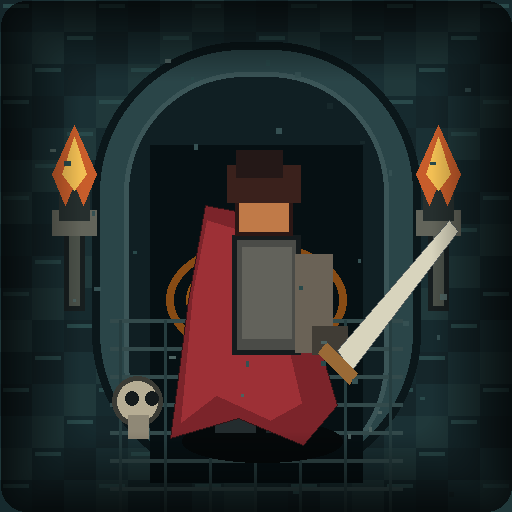
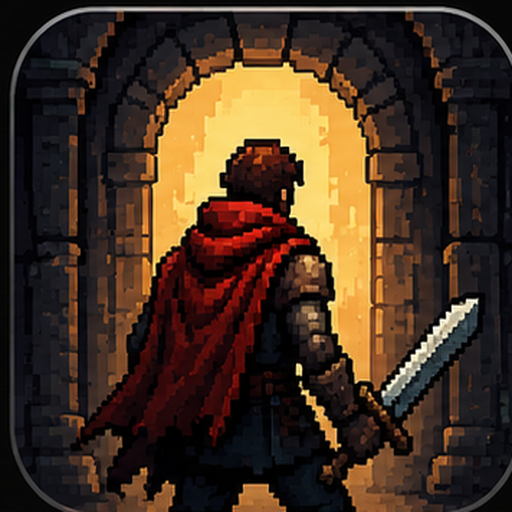
Add files via upload

diff --git a/game.js b/game.js
@@ -1,5 +1,5 @@
 const c=document.getElementById('game'),ctx=c.getContext('2d');
-let W=360,H=480,dpr=1,last=0,room=1,kills=0,gold=0,gameOver=false,roomCleared=false,xp=0,level=1,xpNeed=12,started=false,roomsCleared=0,totalGoldCollected=0,walkTime=0;
+let W=360,H=480,dpr=1,last=0,room=1,kills=0,gold=0,score=0,gameOver=false,roomCleared=false,xp=0,level=1,xpNeed=12,started=false,roomsCleared=0,totalGoldCollected=0,walkTime=0,scoreSaved=false,areaClearTimer=0,areaClearShown=false;
 let area=1,areaName='CASTLE',areaRooms=6,bossRoom=7,atShop=false,areaComplete=false;
 const SPRITE_SCALE=0.82;
 const WEAPONS={
@@ -13,6 +13,18 @@ let enemies=[],loot=[],slashes=[],deathMarks=[],particles=[],projectiles=[],entr
 let spawnQueue=[],spawnTimer=0,totalSpawned=0,totalQuota=0,activeCap=0,activeGoblinCap=0,bossPatternTimer=0,bossPatternStep=0,bossPatternMode='burst';
 const ROOM_PLAN={1:{cap:5,total:10,weights:[['bat',.80],['goblin',.10],['skeleton',.10]]},2:{cap:6,total:12,weights:[['bat',.70],['goblin',.15],['skeleton',.15]]},3:{cap:7,total:14,weights:[['bat',.60],['goblin',.20],['skeleton',.20]]},4:{cap:8,total:17,weights:[['bat',.50],['goblin',.25],['skeleton',.25]]},5:{cap:10,total:20,weights:[['bat',.40],['goblin',.30],['skeleton',.30]]},6:{cap:12,total:22,weights:[['bat',1/3],['goblin',1/3],['skeleton',1/3]]}};
 let shopMessage='',bossWarningType='',bossWarningTimer=0;
+const SCORE_VALUES={bat:50,goblin:75,skeleton:100,boss:1000};
+let highScores=[];
+try{highScores=JSON.parse(localStorage.getItem('dungeonSurvivorHighScores')||'[]');if(!Array.isArray(highScores))highScores=[]}catch(e){highScores=[]}
+function addScore(amount){score=Math.max(0,score+amount)}
+function saveHighScore(){if(scoreSaved)return;scoreSaved=true;highScores.push({score,room,level,gold:totalGoldCollected,kills,area});highScores.sort((a,b)=>b.score-a.score);highScores=highScores.slice(0,5);try{localStorage.setItem('dungeonSurvivorHighScores',JSON.stringify(highScores))}catch(e){}}
+function scoreRank(){const i=highScores.findIndex(r=>r.score===score&&r.level===level&&r.kills===kills&&r.gold===totalGoldCollected);return i>=0?i+1:0}
+function finishGameOver(){if(gameOver)return;gameOver=true;saveHighScore();msg('You died — tap FIRE to return to title')}
+function enemyScale(){return (1+(area-1)*.18)*(1+(level-1)*.075)}
+function enemyDamageScale(){return 1+(area-1)*.12+(level-1)*.045}
+function scaledPotionHeal(){return Math.min(player.maxHp,18+(area-1)*3+Math.floor((level-1)*1.5))}
+function scaledGoldAmount(enemyType){const typeBonus=enemyType==='skeleton'?2:enemyType==='goblin'?1:0;const base=1+Math.floor(Math.random()*5);return Math.min(14,base+Math.max(0,area-1)+Math.floor((level-1)/3)+typeBonus)}
+function bossGoldReward(){return 30+area*12+level*3}
 let nextSwingSide=1, swingCooldown=0, facing=0, facingDir='right';
 const GOBLIN_CAPS={1:2,2:3,3:4,4:5,5:6,6:6};
 const P={ink:'#061316',deep:'#0a1c20',wall:'#172d31',wall2:'#234247',stone:'#29494a',moss:'#3f6d43',vine:'#2f603c',teal:'#52d8c0',teal2:'#83f0d7',cream:'#d8d4bd',gold:'#e5b94d',gold2:'#ffd86a',red:'#c95159',red2:'#ed6a70',blue:'#5fa9c7',green:'#4dbb88'};
@@ -48,12 +60,12 @@ function chooseEnemyType(weights){
 }
 function resetRoom(){
  player.x=58;player.y=H/2;player.hp=clamp(player.hp,0,player.maxHp);player.flash=0;player.hitTimer=0;player.hitCooldown=0;player.knockX=0;player.knockY=0;
- enemies=[];loot=[];slashes=[];deathMarks=[];particles=[];projectiles=[];entrances=[];roomCleared=false;atShop=false;areaComplete=false;bossWarningTimer=0;setBossWarning('');
+ enemies=[];loot=[];slashes=[];deathMarks=[];particles=[];projectiles=[];entrances=[];roomCleared=false;atShop=false;areaComplete=false;areaClearTimer=0;areaClearShown=false;bossWarningTimer=0;setBossWarning('');
  spawnQueue=[];spawnTimer=.35;totalSpawned=0;bossPatternTimer=1.1;bossPatternStep=0;bossPatternMode='burst';
  const isBoss=room===bossRoom;
  if(isBoss){
   totalQuota=1;activeCap=1;
-  const hp=650+area*100;
+  const hp=Math.round((650+area*100)*enemyScale());
   enemies.push({x:W-105,y:H/2,r:34*SPRITE_SCALE,type:'boss',hp,max:hp,active:true,speed:35+area*2,hit:0,boss:true,attackTimer:1.1,attackAge:0,swingHit:false,weapon:'shortSword',warning:'',warningTimer:0,patternActive:false});
   msg('BOSS ROOM — DEFEAT THE GUARDIAN');
  }else{
@@ -96,7 +108,7 @@ function activateEntrance(ent){
  const base=ent.type==='bat'?34:ent.type==='goblin'?48:58;
  const speed=ent.type==='bat'?78:ent.type==='goblin'?42:34;
  const r=ent.type==='bat'?11:15;
- const hp=base+room*7;
+ const hp=Math.round((base+room*7)*enemyScale());
  enemies.push({x:ent.x,y:ent.y,r:r*SPRITE_SCALE,type:ent.type,hp,max:hp,speed:speed+room*2,hit:0,attackCooldown:.8,windup:0,attackAge:0,swingHit:false,swingAngle:0,swingSide:1,reposition:0,vulnerable:0,active:true,facingDir:'left'});
 }
 
@@ -121,7 +133,7 @@ function buyUpgrade(type){
 }
 function continueFromShop(){
  if(!atShop)return;
- atShop=false;areaComplete=false;area++;areaName=area===2?'TBD':`AREA ${area}`;room=1;
+ atShop=false;areaComplete=false;area++;areaName={2:'LOWER CASTLE',3:'CRYPT',4:'CATACOMBS',5:'ABYSS'}[area]||`AREA ${area}`;room=1;
  showPickup(`Entering Area ${area}`);
  msg(`AREA ${area} — ${areaName}`);
  resetRoom();
@@ -130,7 +142,7 @@ function continueFromShop(){
 function spawnLoot(x,y,enemyType){
  // Almost everything is gold. Healing is deliberately rare.
  const roll=Math.random();
- let type='Gold',amount=1+Math.floor(Math.random()*5);
+ let type='Gold',amount=scaledGoldAmount(enemyType);
  if(roll<0.035) type='Heart';
  else if(roll<0.105) type='Potion';
  const kick=Math.random()*Math.PI*2;const kickSpeed=type==='Gold'?35+Math.random()*35:0;
@@ -168,14 +180,16 @@ function performSwing(){
  slashes.push({age:0,duration:w.swingDuration,side,angle:facing,reach:w.reach,hit:new Set(),damage:player.damage,weapon:player.weapon});
 }
 
-function damagePlayer(amount,sourceX,sourceY,knockbackScale=1){
+function damagePlayer(amount,sourceX,sourceY,knockbackScale=1,hitType='normal'){
  if(gameOver||player.hitCooldown>0)return false;
  const dx=player.x-sourceX,dy=player.y-sourceY,d=Math.hypot(dx,dy)||1;
  const strength=(18+amount*0.95)*knockbackScale;
  player.knockX=dx/d*strength;player.knockY=dy/d*strength;
  player.hp-=amount;player.flash=.16;player.hitTimer=.24;player.hitCooldown=.28;
+ addScore(-(hitType==='fire'?100:5));
  burst(player.x,player.y,'hit',7);
- if(player.hp<=0){player.hp=0;gameOver=true;msg('You died — tap FIRE to return to title');}
+ if(player.hp<=0){player.hp=0;finishGameOver();}
+ updateHud();
  return true;
 }
 
@@ -183,6 +197,7 @@ function update(dt){
  if(!started)return;
  if(gameOver)return;
  if(atShop){updateHud();return;}
+ if(areaClearTimer>0)areaClearTimer=Math.max(0,areaClearTimer-dt);
  player.fire=Math.max(0,player.fire-dt);player.flash=Math.max(0,player.flash-dt);player.hitTimer=Math.max(0,player.hitTimer-dt);player.hitCooldown=Math.max(0,player.hitCooldown-dt);swingCooldown=Math.max(0,swingCooldown-dt);
  player.x+=player.knockX*dt;player.y+=player.knockY*dt;const knockDrag=Math.pow(.025,dt);player.knockX*=knockDrag;player.knockY*=knockDrag;
  let mx=(keys.d?1:0)-(keys.a?1:0),my=(keys.s?1:0)-(keys.w?1:0);
@@ -221,7 +236,7 @@ function update(dt){
    e.y+=((Math.sin(a)*move)+Math.sin(a+Math.PI/2)*strafe)*e.speed*dt*moveScale;
    e.attackCooldown-=dt;
    if(d<260&&e.attackCooldown<=0&&e.windup<=0){e.windup=.52;e.attackCooldown=1.45;}
-   if(e.windup>0){e.windup-=dt;if(e.windup<=0){shootProjectile(e.x,e.y,a,115,10,'arrow');e.reposition=.42}}
+   if(e.windup>0){e.windup-=dt;if(e.windup<=0){shootProjectile(e.x,e.y,a,115,Math.round(10*enemyDamageScale()),'arrow');e.reposition=.42}}
    if(e.reposition>0){e.reposition-=dt;const back=Math.atan2(e.y-player.y,e.x-player.x);e.x+=Math.cos(back)*e.speed*dt*1.8*moveScale;e.y+=Math.sin(back)*e.speed*dt*1.8*moveScale}
   }else if(e.type==='skeleton'){
    const a=Math.atan2(player.y-e.y,player.x-e.x);
@@ -232,7 +247,7 @@ function update(dt){
    if(e.windup>0){e.windup-=dt;if(e.windup<=0){e.attackAge=.20;e.swingHit=false;e.swingAngle=a}}
    if(e.attackAge>0){
     e.attackAge=Math.max(0,e.attackAge-dt);
-    if(!e.swingHit&&Math.hypot(player.x-e.x,player.y-e.y)<e.r+player.r+18){damagePlayer(14,e.x,e.y,1.0);e.swingHit=true}
+    if(!e.swingHit&&Math.hypot(player.x-e.x,player.y-e.y)<e.r+player.r+18){damagePlayer(Math.round(14*enemyDamageScale()),e.x,e.y,1.0,'normal');e.swingHit=true}
     if(e.attackAge<=0){e.attackCooldown=1.2;e.vulnerable=.35;}
    e.vulnerable=Math.max(0,(e.vulnerable||0)-dt);
    }
@@ -261,7 +276,7 @@ function update(dt){
    }
    if(e.patternActive&&bossPatternMode==='burst'&&bossPatternTimer<1.0){
     const n=5,gap=.16,idx=Math.floor(bossPatternTimer/gap);
-    if(idx<n&&Math.abs(bossPatternTimer-idx*gap)<dt*1.2){const base=Math.atan2(player.y-e.y,player.x-e.x);shootProjectile(e.x,e.y,base+(idx-2)*.11,122,14,'fireball');}
+    if(idx<n&&Math.abs(bossPatternTimer-idx*gap)<dt*1.2){const base=Math.atan2(player.y-e.y,player.x-e.x);shootProjectile(e.x,e.y,base+(idx-2)*.11,122,Math.round(14*enemyDamageScale()),'fireball');}
     bossPatternTimer+=dt;
     if(bossPatternTimer>=1.0){e.patternActive=false;e.attackTimer=3.2;}
    }else if(e.patternActive&&bossPatternMode==='spiral'&&bossPatternTimer<3.6){
@@ -272,15 +287,15 @@ function update(dt){
    }
   }
   e.x=clamp(e.x,32,W-32);e.y=clamp(e.y,72,H-72);
-  if(e.type!=='goblin'&&e.type!=='skeleton'&&d<e.r+player.r){damagePlayer(e.type==='boss'?30:22,e.x,e.y,e.type==='boss'?1.2:.55)}
-  if(player.hp<=0){player.hp=0;gameOver=true;msg('You died — tap FIRE to return to title')}
+  if(e.type!=='goblin'&&e.type!=='skeleton'&&d<e.r+player.r){damagePlayer(e.type==='boss'?Math.round(30*enemyDamageScale()):Math.round(22*enemyDamageScale()),e.x,e.y,e.type==='boss'?1.2:.55,'normal')}
+  if(player.hp<=0){player.hp=0;finishGameOver()}
  }
 
- for(let i=projectiles.length-1;i>=0;i--){const q=projectiles[i];q.age+=dt;q.x+=Math.cos(q.a)*q.speed*dt;q.y+=Math.sin(q.a)*q.speed*dt;q.life-=dt;if(q.life<=0||q.x<15||q.x>W-15||q.y<60||q.y>H-60){projectiles.splice(i,1);continue}if(Math.hypot(q.x-player.x,q.y-player.y)<q.r+player.r){if(damagePlayer(q.damage,q.x,q.y,q.type==='fireball'?1.0:.85))projectiles.splice(i,1);else projectiles.splice(i,1)}}
+ for(let i=projectiles.length-1;i>=0;i--){const q=projectiles[i];q.age+=dt;q.x+=Math.cos(q.a)*q.speed*dt;q.y+=Math.sin(q.a)*q.speed*dt;q.life-=dt;if(q.life<=0||q.x<15||q.x>W-15||q.y<60||q.y>H-60){projectiles.splice(i,1);continue}if(Math.hypot(q.x-player.x,q.y-player.y)<q.r+player.r){if(damagePlayer(q.damage,q.x,q.y,q.type==='fireball'?1.0:.85,q.type==='fireball'||q.type==='fireblast'?'fire':'normal'))projectiles.splice(i,1);else projectiles.splice(i,1)}}
 
  for(let i=slashes.length-1;i>=0;i--){
   const s=slashes[i];s.age+=dt;const progress=s.age/s.duration;const reach=s.reach||playerWeapon().reach;const centre=s.angle+s.side*(Math.PI*.40-(Math.min(1,progress)*Math.PI*.80));
-  for(const e of [...enemies]){if(s.hit.has(e)||!e.active)continue;const dx=e.x-player.x,dy=e.y-player.y,d=Math.hypot(dx,dy);let da=Math.atan2(dy,dx)-centre;da=Math.atan2(Math.sin(da),Math.cos(da));if(d<reach+e.r&&Math.abs(da)<.82){e.hp-=s.damage;s.hit.add(e);e.hit=.12;e.stagger=.12;const push=Math.max(0,1-d/(reach+e.r));const pa=Math.atan2(e.y-player.y,e.x-player.x);e.x+=Math.cos(pa)*(8+18*push);e.y+=Math.sin(pa)*(8+18*push);burst(e.x,e.y,'hit',5);if(e.hp<=0){deathMarks.push({x:e.x,y:e.y,type:e.type,seed:Math.random()*1000});if(e.type!=='boss')spawnLoot(e.x,e.y,e.type);enemies.splice(enemies.indexOf(e),1);kills++;awardXP(e.type==='boss'?30:e.type==='bat'?3:e.type==='goblin'?4:5);burst(e.x,e.y,'death',e.type==='boss'?28:12);if(!isBossRoom())spawnTimer=.65;}}}
+  for(const e of [...enemies]){if(s.hit.has(e)||!e.active)continue;const dx=e.x-player.x,dy=e.y-player.y,d=Math.hypot(dx,dy);let da=Math.atan2(dy,dx)-centre;da=Math.atan2(Math.sin(da),Math.cos(da));if(d<reach+e.r&&Math.abs(da)<.82){e.hp-=s.damage;s.hit.add(e);e.hit=.12;e.stagger=.12;const push=Math.max(0,1-d/(reach+e.r));const pa=Math.atan2(e.y-player.y,e.x-player.x);e.x+=Math.cos(pa)*(8+18*push);e.y+=Math.sin(pa)*(8+18*push);burst(e.x,e.y,'hit',5);if(e.hp<=0){deathMarks.push({x:e.x,y:e.y,type:e.type,seed:Math.random()*1000});if(e.type!=='boss')spawnLoot(e.x,e.y,e.type);else{const reward=bossGoldReward();gold+=reward;totalGoldCollected+=reward;showPickup(`👑 GUARDIAN BONUS  +${reward} GOLD`)}enemies.splice(enemies.indexOf(e),1);kills++;addScore(SCORE_VALUES[e.type]||0);awardXP(e.type==='boss'?30:e.type==='bat'?3:e.type==='goblin'?4:5);burst(e.x,e.y,'death',e.type==='boss'?28:12);if(e.type==='boss'){areaClearTimer=1.8;areaClearShown=true;}if(!isBossRoom())spawnTimer=.65;}}}
   if(progress>=1)slashes.splice(i,1);
  }
 
@@ -293,7 +308,7 @@ function update(dt){
    if(d>0.1&&d<magnet){const pull=70+((magnet-d)/magnet)*210;l.x+=dx/d*pull*dt;l.y+=dy/d*pull*dt}
   }
  });
- for(let i=loot.length-1;i>=0;i--){const l=loot[i];const pickupRadius=l.type==='Gold'?player.r+5:player.r+l.r+9;if(dist(player,l)<pickupRadius){if(l.type==='Gold'){gold+=l.amount;totalGoldCollected+=l.amount;showPickup(`🪙 +${l.amount} GOLD  •  purse: ${gold}`)}if(l.type==='Heart'){player.hp=player.maxHp;showPickup('♥ FULL HEAL!')}if(l.type==='Potion'){const before=player.hp;player.hp=clamp(player.hp+18,0,player.maxHp);showPickup(`✚ +${Math.round(player.hp-before)} HP`)}burst(l.x,l.y,l.type==='Gold'?'coin':'heal',8);loot.splice(i,1);updateHud()}}
+ for(let i=loot.length-1;i>=0;i--){const l=loot[i];const pickupRadius=l.type==='Gold'?player.r+5:player.r+l.r+9;if(dist(player,l)<pickupRadius){if(l.type==='Gold'){gold+=l.amount;totalGoldCollected+=l.amount;showPickup(`🪙 +${l.amount} GOLD  •  purse: ${gold}`)}if(l.type==='Heart'){player.hp=player.maxHp;showPickup('♥ FULL HEAL!')}if(l.type==='Potion'){const before=player.hp;player.hp=clamp(player.hp+scaledPotionHeal(),0,player.maxHp);showPickup(`✚ +${Math.round(player.hp-before)} HP`)}burst(l.x,l.y,l.type==='Gold'?'coin':'heal',8);loot.splice(i,1);updateHud()}}
  particles.forEach(p=>{p.x+=p.vx*dt;p.y+=p.vy*dt;p.life-=dt;p.vx*=.985;p.vy*=.985});particles=particles.filter(p=>p.life>0);
  if(!isBossRoom()&&spawnQueue.length===0&&entrances.length===0&&enemies.length===0&&!roomCleared){roomCleared=true;roomsCleared++;msg('ROOM CLEARED — reach the EXIT »');showPickup('ROOM CLEARED — walk to the glowing exit');burst(W/2,H/2,'clear',18)}
  if(isBossRoom()&&enemies.length===0&&!roomCleared){roomCleared=true;msg(`AREA ${area} COMPLETE — reach the EXIT »`);showPickup('Guardian defeated — walk to the exit')}
@@ -503,9 +518,10 @@ function draw(){
  slashes.forEach(drawSlash);
  particles.forEach(p=>{ctx.globalAlpha=Math.max(0,p.life/.45);let col=p.type==='coin'?P.gold2:(p.type==='heal'?P.teal2:(p.type==='hit'?P.cream:(p.type==='spawn'?(p.spawnType==='goblin'?P.green:p.spawnType==='skeleton'?'#a57b4c':P.cream):P.gold)));pixelRect(p.x,p.y,4,4,col);ctx.globalAlpha=1});
  if(roomCleared&&!atShop){const pulse=.8+.2*Math.sin(performance.now()/140);ctx.globalAlpha=pulse;panel(W/2-125,H-65,250,34);text(isBossRoom()?'BOSS DEFEATED  •  WALK TO EXIT »':'ROOM CLEARED  •  WALK TO EXIT »',W/2,H-43,10,P.teal2,'center');ctx.globalAlpha=1}
+ if(areaClearShown&&areaClearTimer>0&&!atShop){const a=areaClearTimer<.35?areaClearTimer/.35:1;ctx.globalAlpha=a;ctx.fillStyle='#02090ae0';ctx.fillRect(26,150,W-52,146);panel(34,158,W-68,130);text('AREA CLEARED',W/2,187,20,P.teal2,'center');text('GUARDIAN DEFEATED',W/2,209,9,P.cream,'center');text(`SCORE  ${score}   •   +${bossGoldReward()} GOLD`,W/2,232,9,P.gold2,'center');text('REACH THE EXIT FOR THE SHOP',W/2,255,8,P.cream,'center');ctx.globalAlpha=1;}
  if(atShop)drawShop();
  if(player.hp>0&&player.hp/player.maxHp<=.25&&!gameOver){const p=.12+.08*(.5+.5*Math.sin(performance.now()/180));ctx.fillStyle='#8f3036';ctx.globalAlpha=p;ctx.fillRect(0,0,W,H);ctx.globalAlpha=1;}
- if(gameOver){ctx.fillStyle='#02090ae8';ctx.fillRect(0,0,W,H);text('GAME OVER',W/2,H/2-55,30,P.cream,'center');text(`REACHED  ${isBossRoom()?'GUARDIAN':`ROOM ${room}`}`,W/2,H/2-20,9,P.teal2,'center');text(`LEVEL ${level}  •  GOLD ${totalGoldCollected}`,W/2,H/2+1,9,P.gold2,'center');text(`ENEMIES DEFEATED  ${kills}`,W/2,H/2+22,9,P.cream,'center');text(`ROOMS CLEARED  ${roomsCleared}`,W/2,H/2+43,9,P.cream,'center');text('TAP FIRE TO RETURN TO TITLE',W/2,H/2+75,11,P.teal2,'center')}
+ if(gameOver){ctx.fillStyle='#02090af2';ctx.fillRect(0,0,W,H);panel(24,74,W-48,320);text('GAME OVER',W/2,106,27,P.cream,'center');text(`FINAL SCORE  ${score}`,W/2,134,16,P.gold2,'center');const rank=scoreRank();text(rank===1?'NEW HIGH SCORE!':rank?`HIGH SCORE RANK  #${rank}`:'',W/2,154,8,P.red2,'center');text(`REACHED  ${isBossRoom()?'GUARDIAN':`ROOM ${room}`}`,W/2,181,9,P.teal2,'center');text(`LEVEL ${level}  •  GOLD ${totalGoldCollected}`,W/2,202,9,P.gold2,'center');text(`ENEMIES DEFEATED  ${kills}`,W/2,223,9,P.cream,'center');text(`ROOMS CLEARED  ${roomsCleared}`,W/2,244,9,P.cream,'center');text('BEST RUNS',W/2,272,9,P.teal2,'center');for(let i=0;i<Math.min(3,highScores.length);i++){const r=highScores[i];text(`${i+1}.  ${r.score}`,W/2,291+i*16,8,P.cream,'center')}text('TAP FIRE TO RETURN TO TITLE',W/2,365,9,P.teal2,'center')}
  if(shake)ctx.restore();
 }
 function loop(t){const dt=Math.min(.033,(t-last)/1000||0);last=t;update(dt);draw();requestAnimationFrame(loop)}
@@ -515,12 +531,13 @@ const startScreen=document.getElementById('startScreen');
 const splashScreen=document.getElementById('splashScreen');
 const playButton=document.getElementById('playButton');
 startScreen.style.display='none';
-setTimeout(()=>{splashScreen.classList.add('done');setTimeout(()=>{splashScreen.style.display='none';startScreen.style.display='flex';msg('PRESS PLAY TO ENTER THE DUNGEON')},360)},1640);
+// Keep the menu underneath the splash during its fade so there is never a frame of the dungeon showing between them.
+setTimeout(()=>{startScreen.style.display='flex';splashScreen.classList.add('done');setTimeout(()=>{splashScreen.style.display='none';msg('PRESS PLAY TO ENTER THE DUNGEON')},220)},1800);
 playButton.addEventListener('pointerdown',e=>{e.preventDefault();if(started)return;startNewRun();msg('AREA 1 • CASTLE — ROOM 1 • CLEAR THE ROOM')});
 requestAnimationFrame(loop);
 addEventListener('keydown',e=>{keys[e.key.toLowerCase()]=true;if(e.code==='Space'){if(gameOver)returnToTitle();else fireHeld=true}});
 addEventListener('keyup',e=>{keys[e.key.toLowerCase()]=false;if(e.code==='Space')fireHeld=false});
-function startNewRun(){started=true;startScreen.style.display='none';gameOver=false;area=1;areaName='CASTLE';room=1;kills=0;gold=0;xp=0;level=1;xpNeed=12;roomsCleared=0;totalGoldCollected=0;atShop=false;areaComplete=false;player.hp=100;player.maxHp=100;player.damage=WEAPONS.shortSword.damage;player.hitTimer=0;player.hitCooldown=0;player.knockX=0;player.knockY=0;player.weapon='shortSword';nextSwingSide=1;swingCooldown=0;fireHeld=false;joy.active=false;joy.x=joy.y=0;resetRoom()}
+function startNewRun(){started=true;startScreen.style.display='none';gameOver=false;area=1;areaName='CASTLE';room=1;kills=0;gold=0;score=0;xp=0;level=1;xpNeed=12;roomsCleared=0;totalGoldCollected=0;scoreSaved=false;atShop=false;areaComplete=false;player.hp=100;player.maxHp=100;player.damage=WEAPONS.shortSword.damage;player.hitTimer=0;player.hitCooldown=0;player.knockX=0;player.knockY=0;player.weapon='shortSword';nextSwingSide=1;swingCooldown=0;fireHeld=false;joy.active=false;joy.x=joy.y=0;resetRoom()}
 function returnToTitle(){gameOver=false;started=false;atShop=false;areaComplete=false;fireHeld=false;joy.active=false;joy.x=joy.y=0;startScreen.style.display='flex';setBossWarning('');msg('PRESS PLAY TO ENTER THE DUNGEON')}
 
 const stick=document.getElementById('stick'),nub=document.getElementById('nub');

diff --git a/style.css b/style.css
@@ -25,19 +25,9 @@ body{display:flex;justify-content:center}
 #controls #controlHint{font-size:8px;color:#476f6e;letter-spacing:1px;align-self:flex-end;margin-bottom:13px}
 @media(max-height:700px){#app{gap:5px}.brand{height:34px}.brand span,.brand strong{font-size:14px}.stats{gap:4px}.stat{height:39px;padding:4px}.gameFrame{max-width:360px;min-width:0}#controls{height:100px}#controls #stick{width:82px;height:82px}#controls #nub{width:40px;height:40px;left:19px;top:19px}#controls #fire{width:72px;height:72px;font-size:28px}#controls #fire span{bottom:9px;font-size:7px}}
 
-#startScreen{position:absolute;inset:0;z-index:30;background:radial-gradient(circle at 50% 42%,#12363a 0,#061316 48%,#02090a 100%);display:flex;flex-direction:column;align-items:center;justify-content:center;gap:4px;text-align:center}
-#startScreen::before,#startScreen::after{content:'';position:absolute;inset:18px;border:1px solid #29494a;pointer-events:none;opacity:.7}
-#startScreen::after{inset:26px;border-color:#173336;opacity:.55}
-.titleDungeon,.titleSurvivor{font-weight:900;letter-spacing:2px;text-shadow:0 4px 0 #02090a,0 0 18px #52d8c066;position:relative;z-index:1}.titleDungeon{font-size:25px;color:#d8d4bd}.titleSurvivor{font-size:31px;color:#83f0d7;margin-top:-3px}.titleRule{width:150px;height:2px;background:#376566;margin:15px 0 24px;box-shadow:0 0 12px #52d8c066;position:relative;z-index:1}
-#playButton{position:relative;z-index:2;width:150px;height:48px;border:2px solid #83f0d7;background:#0b292b;color:#d8d4bd;font:900 16px ui-monospace,SFMono-Regular,Menlo,monospace;letter-spacing:2px;box-shadow:0 0 0 2px #061316,0 0 20px #52d8c044;touch-action:manipulation}#playButton:active{transform:translateY(2px);background:#123e40}
-.titleHint{position:relative;z-index:1;margin-top:15px;color:#527c78;font-size:7px;letter-spacing:1.2px}
-#bossWarning{position:absolute;top:7px;left:50%;transform:translateX(-50%) scale(.96);z-index:20;min-width:188px;padding:8px 14px 9px;text-align:center;color:#ffe9bd;background:#25120ddd;border:2px solid #e5b94d;box-shadow:0 0 0 2px #061316,0 0 18px #e5b94d88,0 4px 12px #000b;font:900 11px ui-monospace,SFMono-Regular,Menlo,monospace;letter-spacing:1px;opacity:0;pointer-events:none;transition:opacity .1s,transform .1s}#bossWarning.show{opacity:1;transform:translateX(-50%) scale(1)}#bossWarning.fireblast{border-color:#ed6a70;background:#351015ee;color:#ffe3cf;box-shadow:0 0 0 2px #061316,0 0 22px #ed6a70aa,0 4px 12px #000b}
-
-#splashScreen{position:absolute;inset:0;z-index:40;background:#061316 url('./splash-art.svg') center/cover no-repeat;display:flex;flex-direction:column;align-items:center;justify-content:center;text-align:center;transition:opacity .35s ease;overflow:hidden}
-#splashScreen::after{content:'';position:absolute;inset:0;background:linear-gradient(180deg,#02090a44 0%,#02090a22 40%,#02090a77 100%);pointer-events:none}#splashScreen.done{opacity:0}
-.splashTitle{position:relative;z-index:1;margin-top:78px;display:flex;flex-direction:column;font-weight:900;letter-spacing:1.5px;text-shadow:0 4px 0 #02090a,0 0 18px #000}.splashTitle span{font-size:29px;color:#d8d4bd}.splashTitle strong{font-size:36px;color:#c95159;margin-top:-3px}.splashRule{position:relative;z-index:1;width:160px;height:2px;background:#a98a55;margin:17px 0 12px;box-shadow:0 0 10px #e5b94d66}.splashTag{position:relative;z-index:1;font-size:8px;letter-spacing:2.5px;color:#e5d4ad;text-shadow:0 2px 3px #000}
-#startScreen{background:#061316 url('./splash-art.svg') center/cover no-repeat}
-#startScreen::before{background:linear-gradient(180deg,#02090a55,#02090a9a);inset:0;border:0;opacity:1}#startScreen::after{inset:18px;border-color:#9b7848;opacity:.5}
-#startScreen .titleDungeon,#startScreen .titleSurvivor{position:relative;text-shadow:0 4px 0 #02090a,0 0 18px #000}.titleDungeon{font-size:28px}.titleSurvivor{font-size:34px;color:#c95159}.titleRule{background:#a98a55;box-shadow:0 0 10px #e5b94d66}.titleHint{color:#c0ad85}
-#playButton{background:#8f2428;border-color:#d8d4bd;color:#fff2d0;box-shadow:0 0 0 2px #061316,0 0 18px #8f303655,0 4px 0 #3b1113;}
-#playButton:active{background:#b33338}
+#splashScreen,#startScreen{position:fixed;inset:0;z-index:100;background-color:#02090a;background-position:center;background-repeat:no-repeat;background-size:100% 100%;display:flex;align-items:center;justify-content:center;overflow:hidden;touch-action:manipulation}
+#splashScreen{background-image:url('./splash-screen.png');opacity:1;transition:opacity .22s ease}
+#splashScreen.done{opacity:0;pointer-events:none}
+#startScreen{display:none;background-image:url('./menu-screen.png')}
+#playButton{position:absolute;left:25.5%;top:43.2%;width:49%;height:9%;padding:0;border:0;background:transparent;color:transparent;font-size:0;line-height:0;box-shadow:none;outline:none;cursor:pointer;touch-action:manipulation}
+#playButton:active{transform:translateY(2px)}

diff --git a/index.html b/index.html
@@ -25,17 +25,9 @@
 
     <section id="gameFrame">
       <canvas id="game"></canvas>
-      <div id="splashScreen" aria-label="Dungeon Survivor splash screen">
-        <div class="splashTitle"><span>DUNGEON</span><strong>SURVIVOR</strong></div>
-        <div class="splashRule"></div>
-        <div class="splashTag">KILL. LOOT. SURVIVE.</div>
-      </div>
-      <div id="startScreen">
-        <div class="titleDungeon">DUNGEON</div>
-        <div class="titleSurvivor">SURVIVOR</div>
-        <div class="titleRule"></div>
-        <button id="playButton" type="button">PLAY</button>
-        <div class="titleHint">ENTER THE DUNGEON</div>
+      <div id="splashScreen" aria-label="Dungeon Survivor splash screen"></div>
+      <div id="startScreen" aria-label="Dungeon Survivor start menu">
+        <button id="playButton" type="button" aria-label="Play">PLAY</button>
       </div>
       <div id="bossWarning" aria-live="polite"></div>
       <div id="message"></div>

diff --git a/sw.js b/sw.js
@@ -1,5 +1,5 @@
-const CACHE='dungeon-survivor-v0.1.6';
-const ASSETS=['./','./index.html','./style.css','./game.js','./manifest.json','./icon-192.png','./icon-512.png','./splash-art.svg'];
+const CACHE='dungeon-survivor-v0.1.7';
+const ASSETS=['./','./index.html','./style.css','./game.js','./manifest.json','./icon-192.png','./icon-512.png','./splash-screen.png','./menu-screen.png'];
 self.addEventListener('install',e=>e.waitUntil(caches.open(CACHE).then(c=>c.addAll(ASSETS))));
 self.addEventListener('activate',e=>e.waitUntil(caches.keys().then(keys=>Promise.all(keys.filter(k=>k!==CACHE).map(k=>caches.delete(k))))));
 self.addEventListener('fetch',e=>e.respondWith(fetch(e.request).then(r=>{const copy=r.clone();caches.open(CACHE).then(c=>c.put(e.request,copy));return r}).catch(()=>caches.match(e.request))));

diff --git a/README.md b/README.md
@@ -1,6 +1,6 @@
 # DUNGEON SURVIVOR
 
-**Current Version: 0.1.6**
+**Current Version: 0.1.7**
 
 Dungeon Survivor is a mobile-first, top-down roguelite dungeon survival game designed to run directly from GitHub Pages and install as a PWA on Android.
 
@@ -16,6 +16,8 @@ The game is built as a lightweight HTML, CSS and JavaScript project with a portr
 - Fight using a close-range sword with alternating swings.
 - Collect physical loot by walking over it.
 - Gain XP and level up during a run.
+- Enemy strength, loot value and healing scale with area and player level.
+- Earn score for kills and lose score when taking damage.
 - Spend gold on permanent upgrades after defeating an area boss.
 - Learn enemy attack patterns and react to telegraphed attacks.
 - Reach the Guardian and survive its projectile patterns.
@@ -37,6 +39,8 @@ The game is built as a lightweight HTML, CSS and JavaScript project with a portr
 - Melee combat with visible sword swings, hit effects, stagger and knockback.
 - Locked room exits and a Guardian boss encounter.
 - Permanent upgrade shop between areas.
+- Branded splash/start presentation and installable app icons.
+- Local high-score table and end-of-run score summary.
 
 ## Milestones
 
@@ -58,6 +62,21 @@ Planned areas include:
 - Stronger atmospheric colour and depth.
 
 ## Change Log
+
+### 0.1.7 — Progression, Scoring & Front-End Presentation
+
+- Added area/level-based enemy scaling for HP and damage while keeping progression controlled.
+- Added stronger area progression naming: Castle, Lower Castle, Crypt, Catacombs and Abyss as later areas are reached.
+- Increased gold rewards as area and player level rise, with modest enemy-type bonuses and a Guardian completion reward.
+- Increased potion healing gradually with area and player level.
+- Added scoring: Bat +50, Goblin +75, Skeleton +100 and Guardian +1,000.
+- Added score penalties: normal enemy hit -5; Fireball and Fire Blast hit -100. Score cannot fall below zero.
+- Added a local top-five high-score table stored on the device and displayed on Game Over.
+- Added a short Area Cleared presentation after defeating the Guardian before reaching the exit/shop.
+- Replaced the generated splash/menu approximation with the selected torchlit dungeon artwork as the actual splash and Play menu visuals.
+- Removed the transition gap between splash and start menu by crossfading the menu underneath the splash.
+- Replaced the PWA app icon with the exact selected hero-in-the-doorway artwork.
+- Updated the service-worker cache and packaged visual assets for the new front-end presentation.
 
 ### 0.1.6 — Combat Feedback & Presentation
 
